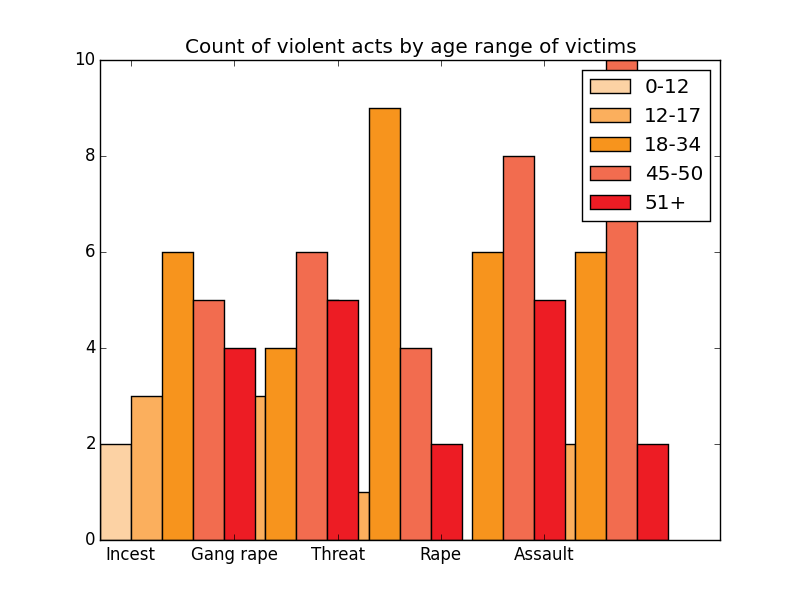
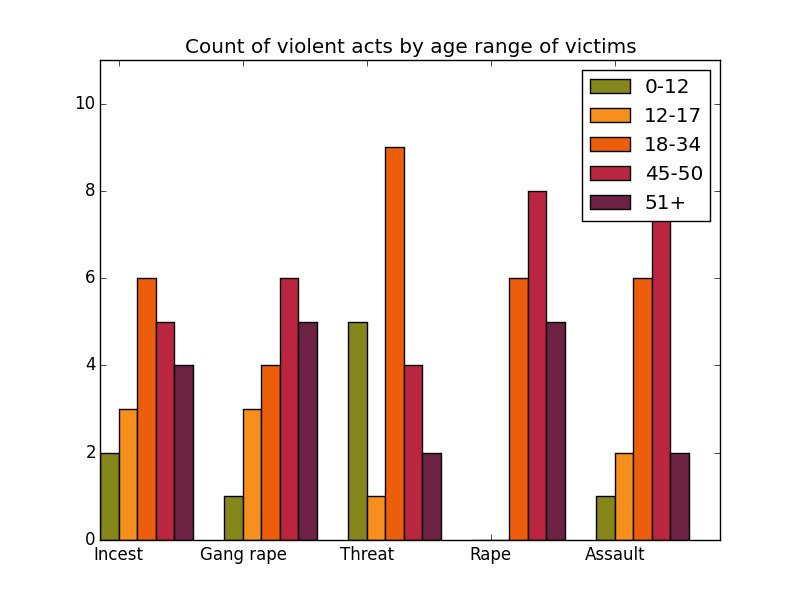
fixed colorscheme and yaxis size

diff --git a/graphics_maker.py b/graphics_maker.py
@@ -6,7 +6,13 @@ import sys
 
 DATAFILE = 'map_records.csv'
 delimiter = ','
-COLORSETMORE = ["#fcd2a4","#fbaf5d","#f7941d","#f26c4f","#ed1c24","#9e0b0f"]
+#COLORSETMORE = ["#fcd2a4","#fbaf5d","#f7941d","#f26c4f","#ed1c24","#9e0b0f"]
+
+COLORSETMORE = ["#EC5E0C","#6D2243","#BA2640","#F78F1E","#85871A"]
+COLORSETMOREORDER = ["#85871A","#F78F1E","#EC5E0C","#BA2640","#6D2243"]
+
+
+
 COLORSET2 = ["#ff7f00","#0080ff"]
 #HEADER = ['DATE','NARRATIVE','GENDER','HEALTH','AGE','ACT','PUBLISHED']
 HEADER = ["Title","Narrative","Date","Map filter #1","Map filter #2","Map filter #3","Map filter #4","Published"]
@@ -35,8 +41,6 @@ def import_data(datafile):
 
 	if header != HEADER:
 		print "Header needs to be checked"
-		print header
-		print HEADER
 		sys.exit()
 
 	print "\nReading .csv file:", datafile, "\n"
@@ -54,12 +58,9 @@ def sortlabels(labels):
 	for l in labels:
 	    if is_int(l.replace('+','').split('-')[0]) == False:
 	    	numerical = False
-	    else:
-	    	print l
 	if numerical:
 		parsed = [(l, int(l.replace('+','').split('-')[0])) for l in labels]
 		newparsed = sorted(parsed, key = lambda x: x[1])
-		print newparsed
 		newlabels = zip(*newparsed)[0]
 	else:
 		labels.sort()
@@ -70,17 +71,21 @@ def plot(labels,sublabels,data,x,y):
 	fig, ax = plt.subplots(1)
 	sublabels = sortlabels(sublabels)
 	if len(sublabels)<=2:
-		colors = {sl: COLORSET2[i] for i, sl in enumerate(sublabels)}
-	else:
 		colors = {sl: COLORSETMORE[i] for i, sl in enumerate(sublabels)}
-	width = 0.3
+		width = 0.4
+	else:
+		colors = {sl: COLORSETMOREORDER[i] for i, sl in enumerate(sublabels)}
+		width = 0.15
+	max_y = 0
 	for i,sl in enumerate(sublabels):
 		#ppl.bar(ax, [w + width*i for w in range(len(labels))], [data[category][sl] for category in labels], width, grid='y', color = colors[sublabels[i]])
 		ax.bar([w + width*i for w in range(len(labels))], [data[category][sl] for category in labels], width, color = colors[sublabels[i]])
+		max_y = max(max_y,max([data[category][sl] for category in labels]))
 	ax.set_xticks([w + width for w in range(len(labels))])
 	ax.set_xticklabels(labels)
 	ax.set_title("Count of {1}s by {0} of victims".format(x.replace('_',' '),y.replace('_',' ')))
 	ax.legend(sublabels)
+	ax.set_ylim([0,max_y*1.1])
 	filename = "bar_{0}_by_{1}.png".format(x,y)
 	fig.savefig(filename)
 	print "\t", filename
